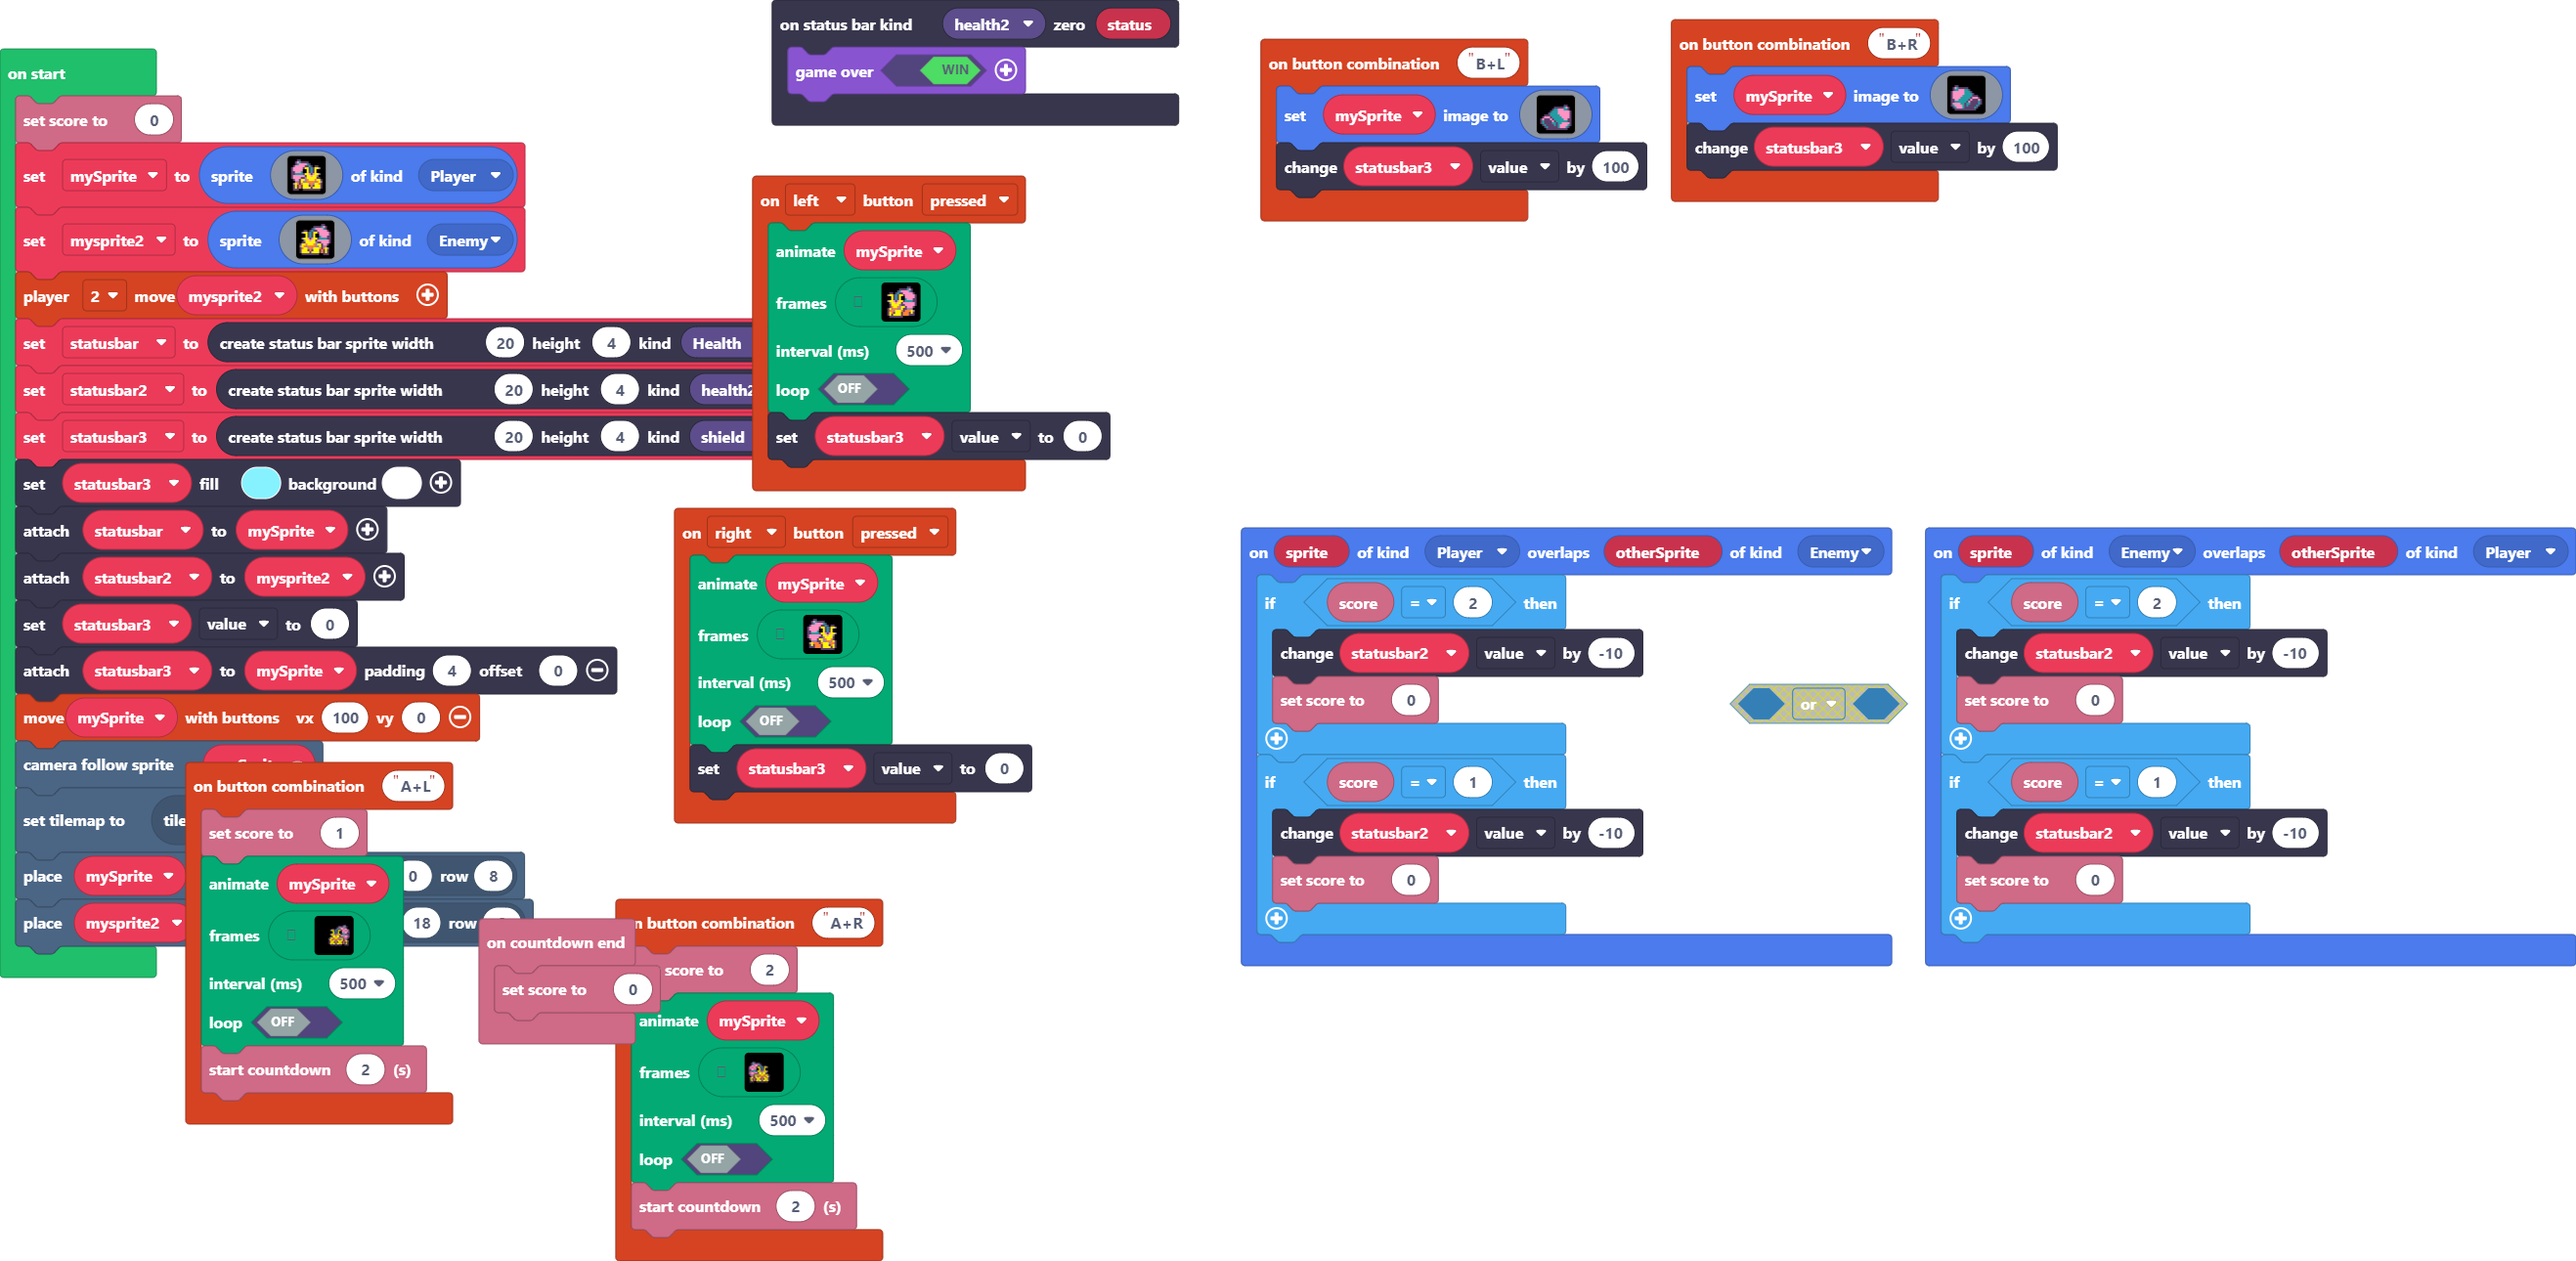
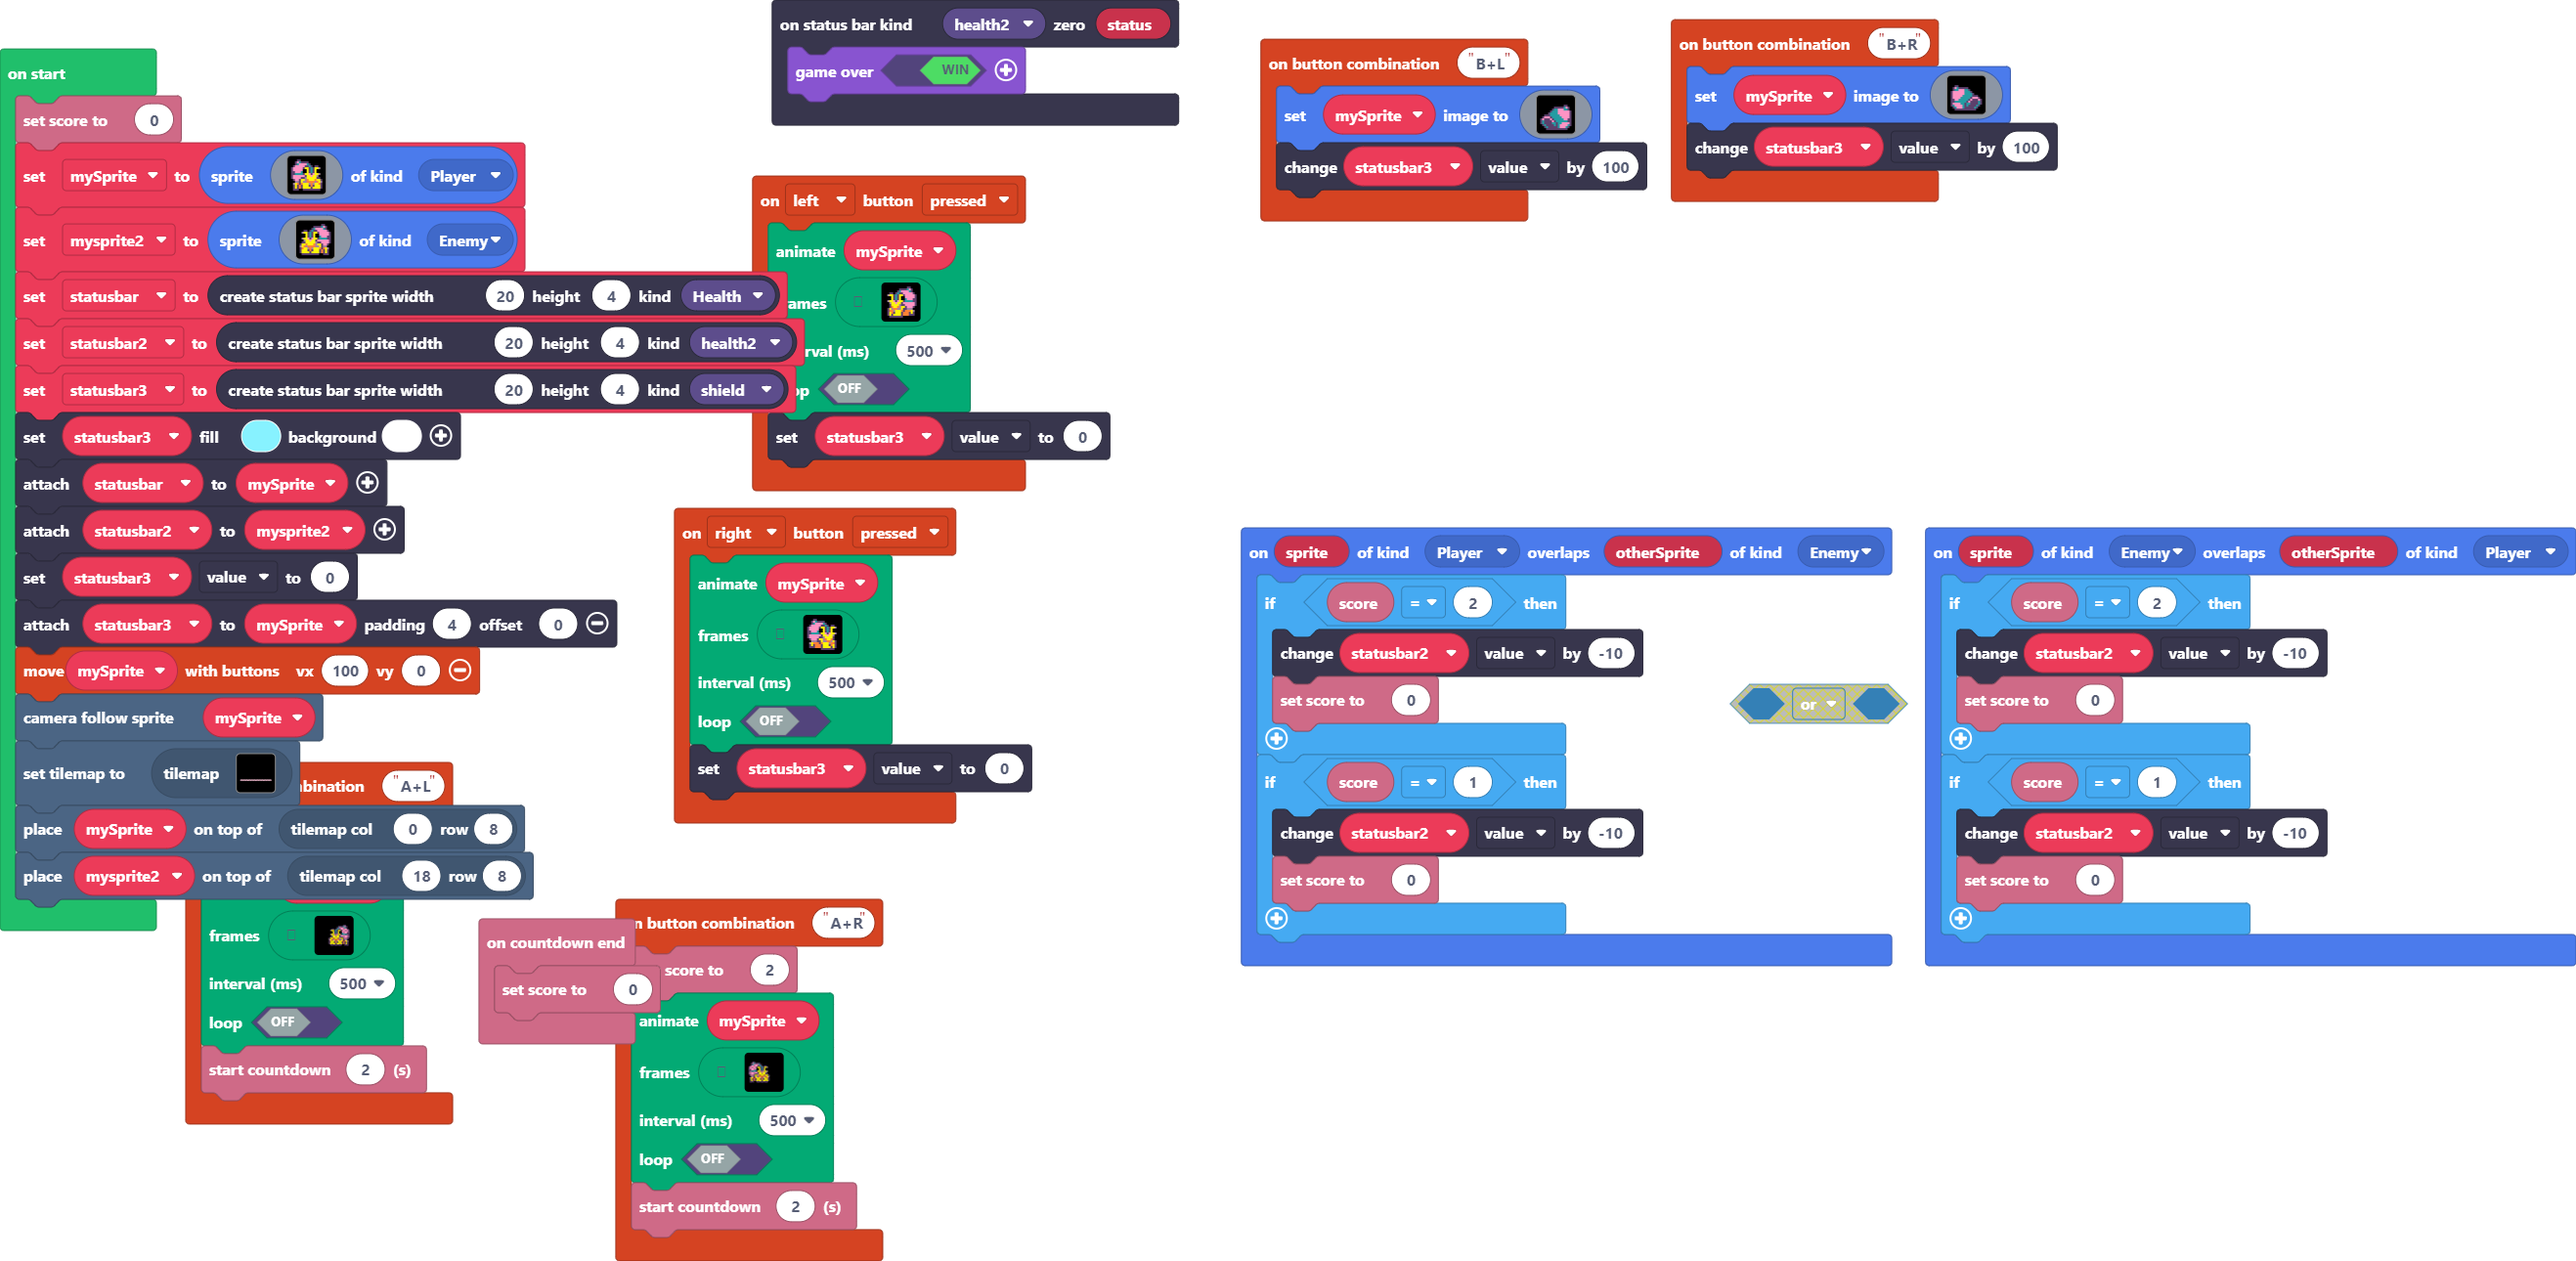
deleted a few things

Changed region(s): [[0.0, 0.2171, 0.3112, 0.7752]]

diff --git a/tilemap.g.ts b/tilemap.g.ts
@@ -18,6 +18,25 @@ namespace myTiles {
 . . . . . . . . . . . . . . . . . . . . 
 2 2 2 2 2 2 2 2 2 2 2 2 2 2 2 2 2 2 2 2 
 `, [myTiles.transparency16,sprites.builtin.oceanSand6,sprites.builtin.oceanSand5], TileScale.Sixteen);
+            case "level2":
+            case "level2":return tiles.createTilemap(hex`1000100000000000000000000000000000000000000000000000000000000000000000000000000000000000000000000000000000000000000000000000000000000000000000000000000000000000000000000000000000000000000000000000000000000000000000000000000000000000000000000000000000000000000000000000000000000000000000000000000000000000000000000000000000000000000000000000000000000000000000000000000000000000000000000000000000000000000000000000000000000000000000000000000000000000000000000000000000000000000000000000000000000000000000000000000000000000`, img`
+. . . . . . . . . . . . . . . . 
+. . . . . . . . . . . . . . . . 
+. . . . . . . . . . . . . . . . 
+. . . . . . . . . . . . . . . . 
+. . . . . . . . . . . . . . . . 
+. . . . . . . . . . . . . . . . 
+. . . . . . . . . . . . . . . . 
+. . . . . . . . . . . . . . . . 
+. . . . . . . . . . . . . . . . 
+. . . . . . . . . . . . . . . . 
+. . . . . . . . . . . . . . . . 
+. . . . . . . . . . . . . . . . 
+. . . . . . . . . . . . . . . . 
+. . . . . . . . . . . . . . . . 
+. . . . . . . . . . . . . . . . 
+. . . . . . . . . . . . . . . . 
+`, [myTiles.transparency16], TileScale.Sixteen);
         }
         return null;
     })

diff --git a/main.ts b/main.ts
@@ -488,7 +488,6 @@ let mysprite2 = sprites.create(img`
     c 5 5 5 5 c 5 5 5 5 c 4 c 5 c . 
     . c c c c c c c c c . . c c c . 
     `, SpriteKind.Enemy)
-controller.player2.moveSprite(mysprite2)
 let statusbar = statusbars.create(20, 4, StatusBarKind.Health)
 statusbar2 = statusbars.create(20, 4, StatusBarKind.health2)
 statusbar3 = statusbars.create(20, 4, StatusBarKind.shield)
